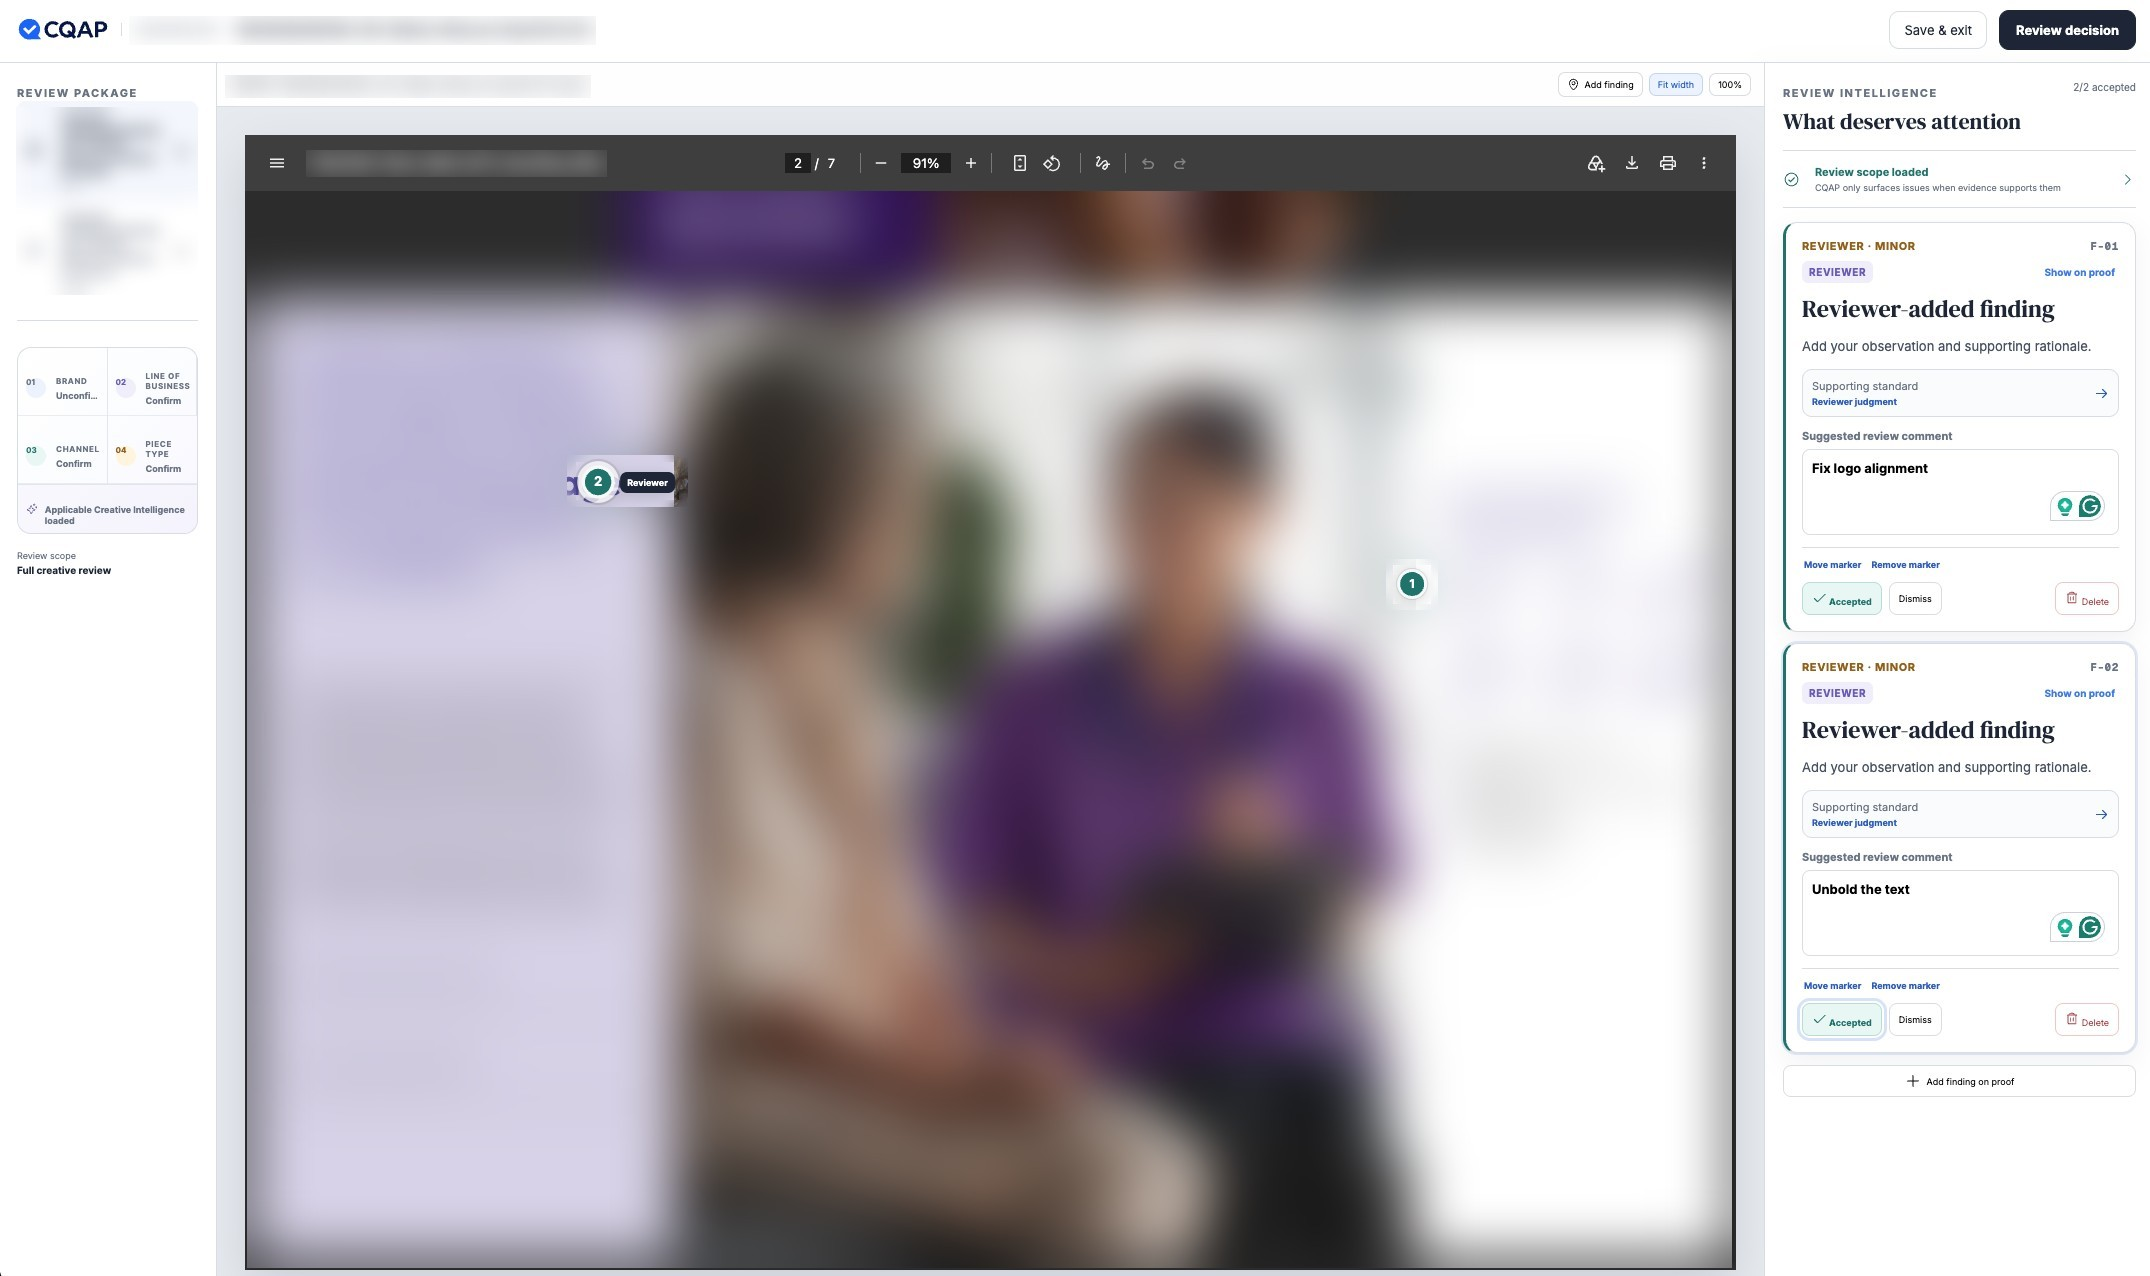
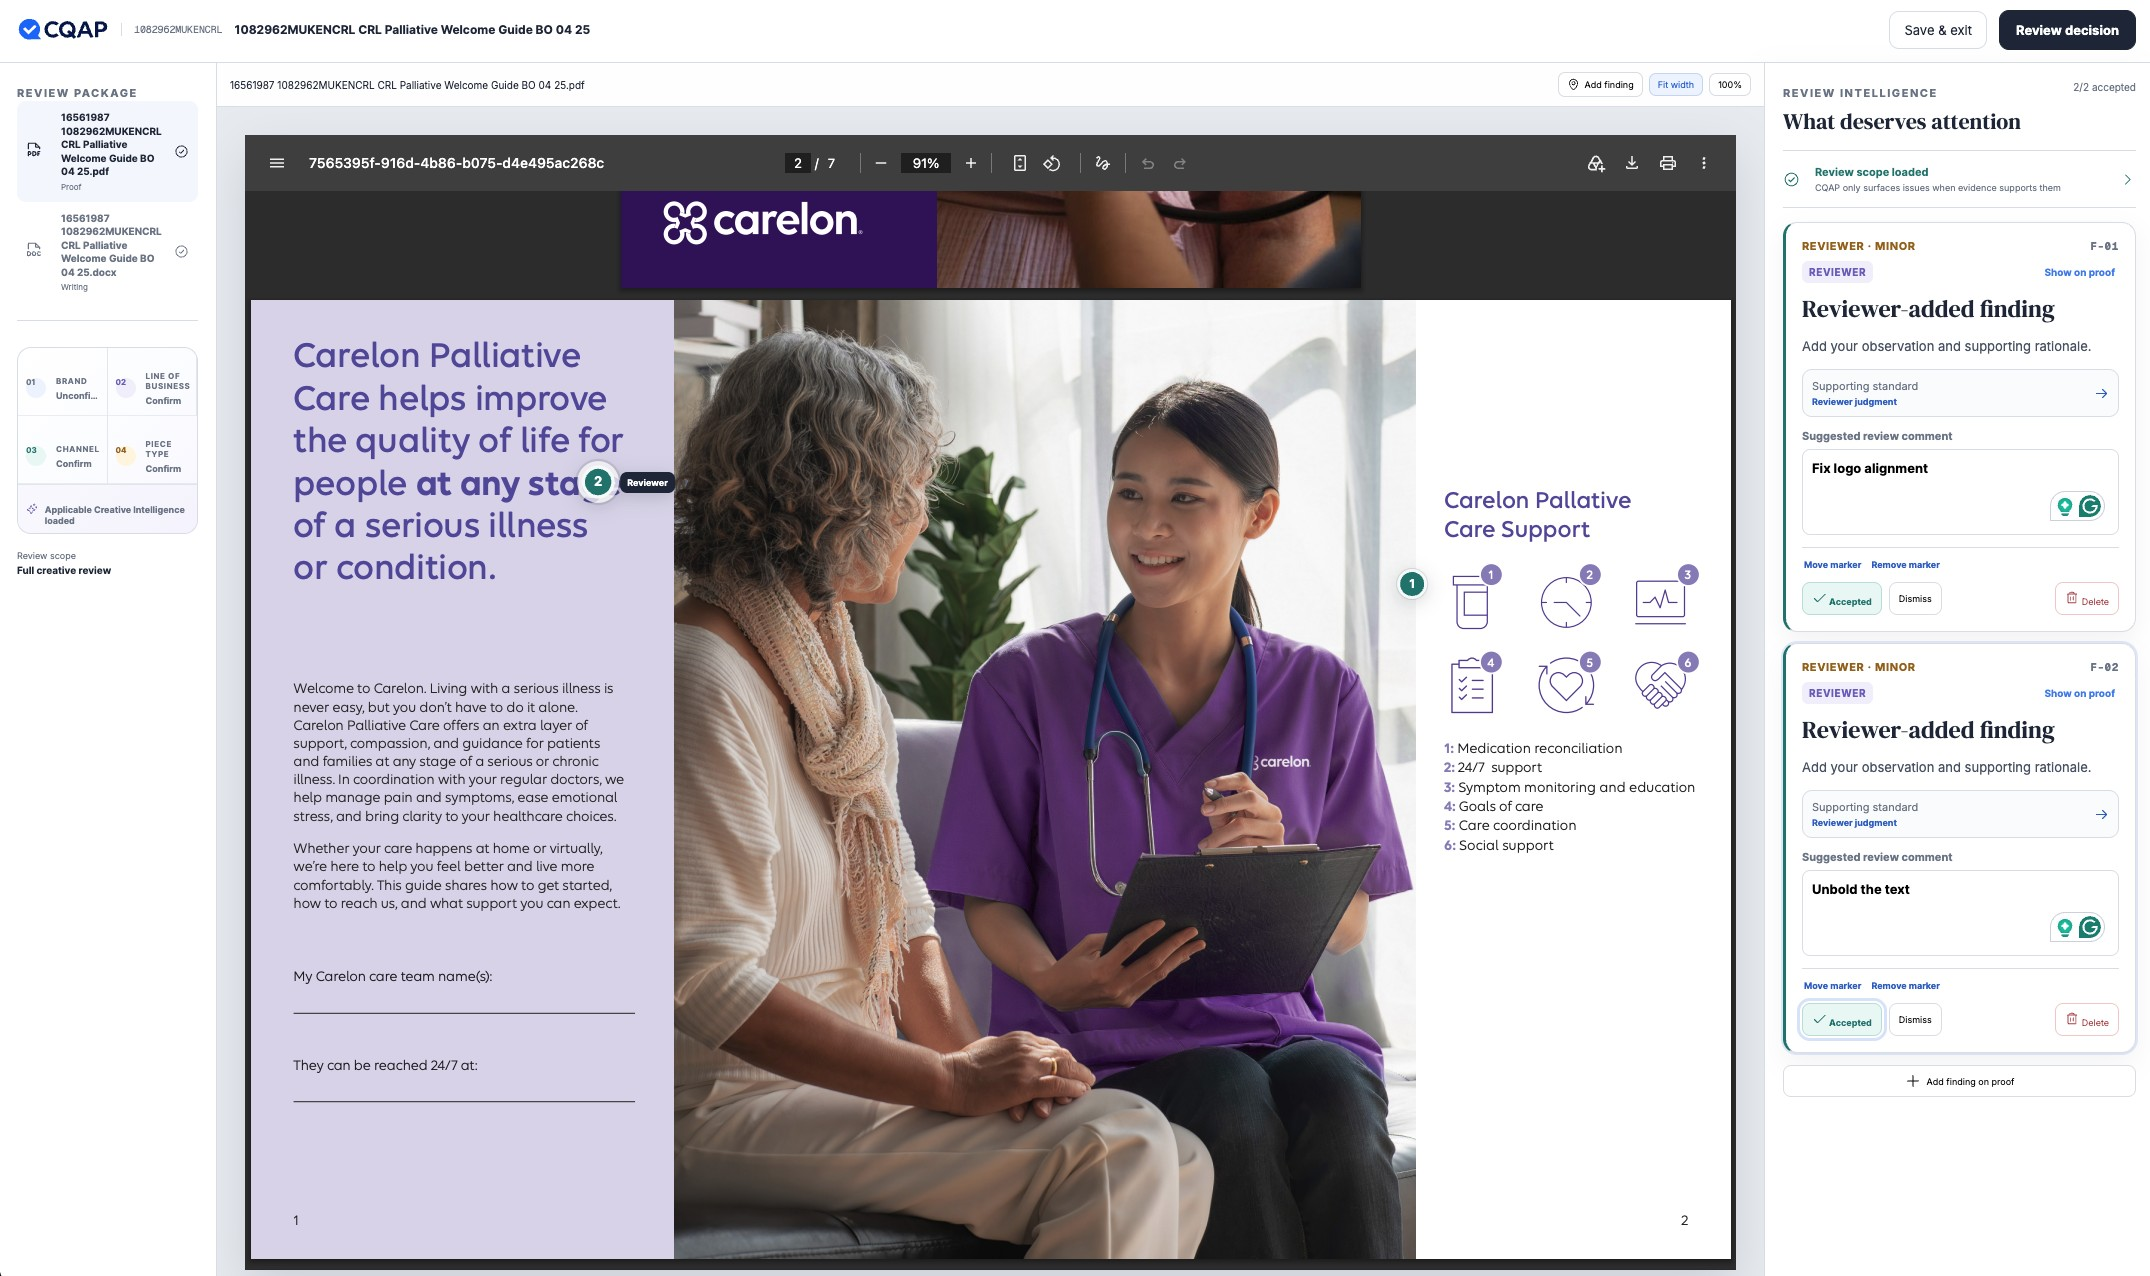
CQAP: unredacted, at the owner's direction
The owner reviewed the blurred version and asked why the proof, the project
number, the company name and the project info were softened — none of it is
sensitive or classified. The blur had been my reading of an earlier "safe,
but abstract the specifics" instruction; the owner is the one who knows what
Carelon material is cleared, so it comes off.

All five screens are now the original captures: dashboard, package
validation, the workspace before and after findings, and the approved
state. The cover is the findings workspace. The two captions that described
the proof as softened now describe what it is — a Carelon Palliative Care
welcome guide, two minor findings, both accepted.

diff --git a/src/lib/projects.ts b/src/lib/projects.ts
@@ -1838,7 +1838,7 @@ export const PROJECTS: Project[] = [
       mandate:
         "Prototype a review tool where the reasoning survives the review: classify work on the way in, capture the decision on the way out, and make both searchable.",
       context:
-        "Built on my own time as a prototype, out of years of running creative review at volume. The screens here show a real review pass; the proof under review and the job identifiers are deliberately softened, because that is client work and the tool is the subject.",
+        "Built on my own time as a prototype, out of years of running creative review at volume. The screens show a real review pass on a real piece — a Carelon Palliative Care welcome guide — from package validation through to an approved decision.",
       role: [
         "Framed the problem as institutional memory rather than workflow speed",
         "Designed the review model — classify on intake, capture the decision on completion",
@@ -1891,7 +1891,7 @@ export const PROJECTS: Project[] = [
             alt: "CQAP — the review workspace with two reviewer findings accepted",
           },
           caption:
-            "The review workspace. Findings are placed on the proof as numbered markers and written up on the right, each tied to a supporting standard. The proof itself is softened here — it is real client work and not the point; the mechanism is.",
+            "The review workspace. Findings are placed on the proof as numbered markers and written up on the right, each tied to a supporting standard — here, a Carelon Palliative Care welcome guide, two minor findings, both accepted.",
         },
         {
           kind: "pair",
@@ -1910,13 +1910,13 @@ export const PROJECTS: Project[] = [
         },
         {
           kind: "full",
-          aspect: "2.8 / 1",
+          aspect: "16 / 9",
           image: {
             src: "/work/cqap/01-dashboard.jpg",
             alt: "CQAP — the workspace with one review active and one completed",
           },
           caption:
-            "The workspace with work in it: one review in progress, one just approved and already available as a prior decision.",
+            "The workspace with work in it: one review in progress, one just approved and already available as a prior decision, and the standards the system has learned along the way.",
         },
       ],
     },
